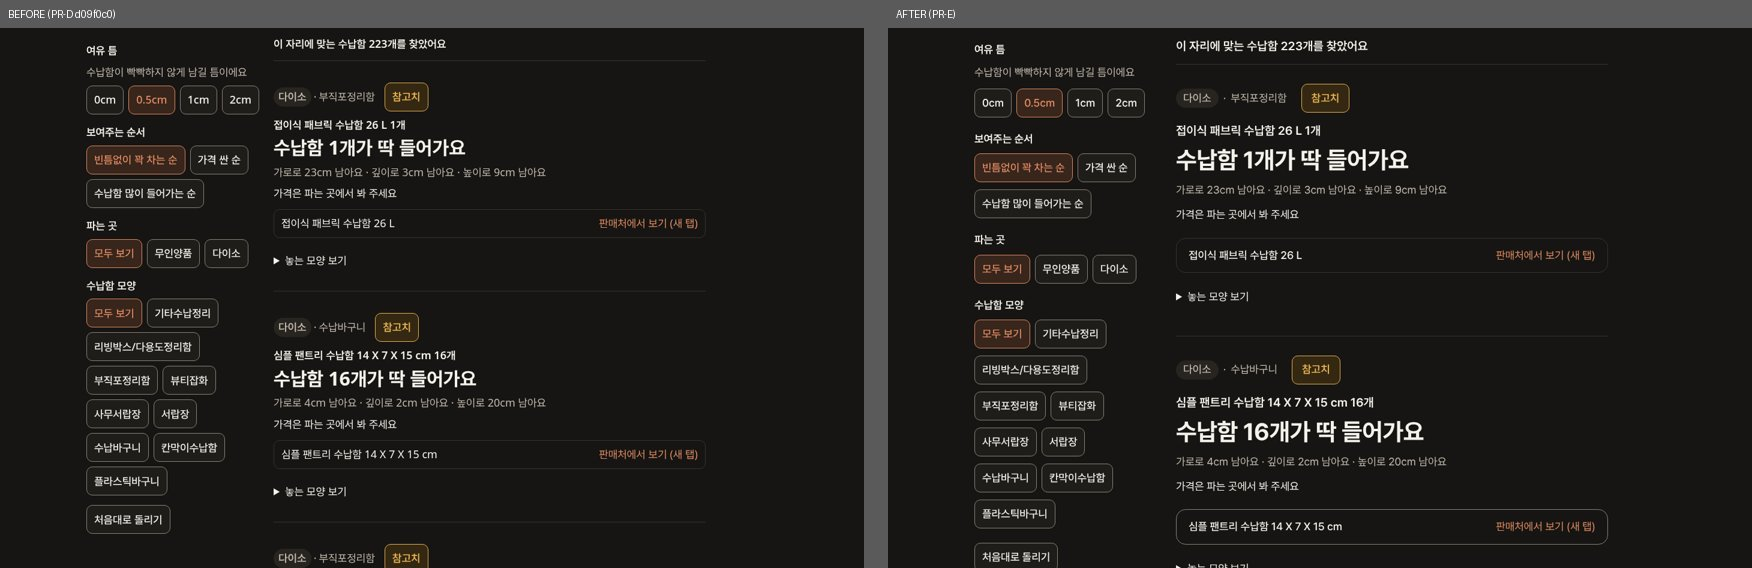
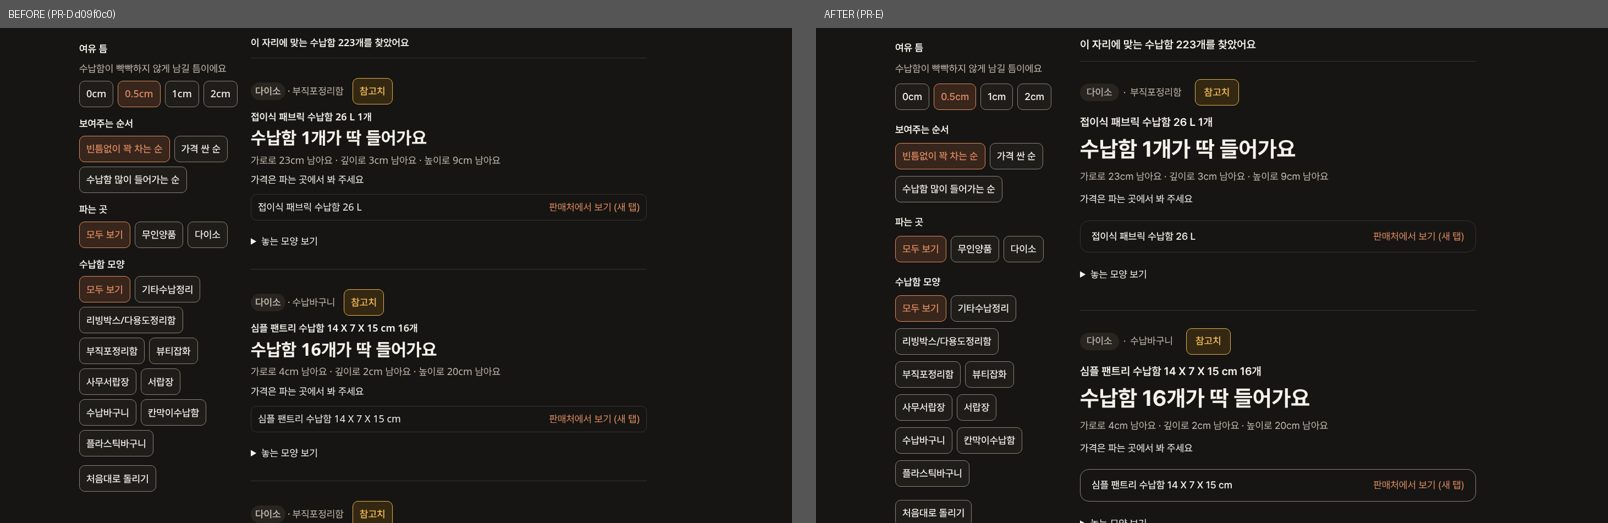
fix(space-fit): Hangul tracking 0 at every size, sheet gets the type layer, sheet title uses title token (review)

diff --git a/apps/web/src/features/space-fit/space-fit.css b/apps/web/src/features/space-fit/space-fit.css
@@ -243,9 +243,9 @@
 .space-filter-panel { gap: var(--zari-space-6); }
 .space-filter-group legend { margin-bottom: var(--zari-space-3); line-height: var(--zari-type-label-line); }
 .space-filter-options { gap: var(--zari-space-3) var(--zari-space-2); }
-.space-sheet { padding: var(--zari-space-6) var(--zari-space-6) max(var(--zari-space-6), env(safe-area-inset-bottom)); }
+.space-sheet { font-family: var(--zari-font-text); font-size: var(--zari-type-body); line-height: var(--zari-type-body-line); letter-spacing: var(--zari-type-tracking-text); word-break: keep-all; padding: var(--zari-space-6) var(--zari-space-6) max(var(--zari-space-6), env(safe-area-inset-bottom)); }
 .space-sheet-head { margin-bottom: var(--zari-space-6); }
-.space-sheet-head h2 { font-family: var(--zari-font-display); letter-spacing: var(--zari-type-display-tracking); }
+.space-sheet-head h2 { font-family: var(--zari-font-display); font-size: var(--zari-type-title); line-height: var(--zari-type-title-line); letter-spacing: var(--zari-type-display-tracking); font-weight: var(--zari-weight-semibold); }
 .space-sheet-footer { margin-top: var(--zari-space-8); gap: var(--zari-space-3); }
 .space-clearance-description { margin: 0 0 var(--zari-space-3); color: var(--zari-text-secondary); line-height: var(--zari-type-body-line); }
 

diff --git a/apps/web/src/styles/tokens.css b/apps/web/src/styles/tokens.css
@@ -41,18 +41,17 @@
   --zari-type-display: 2rem;
   --zari-type-display-wide: 2.5rem;
   --zari-type-display-line: 1.25;
-  --zari-type-display-tracking: -0.012em;
+  --zari-type-display-tracking: 0em;
   --zari-type-result: 2rem;
   --zari-type-result-wide: 2.5rem;
   --zari-type-result-line: 1.18;
-  --zari-type-result-tracking: -0.008em;
+  --zari-type-result-tracking: 0em;
   --zari-type-title: 1.25rem;
   --zari-type-title-line: 1.4;
   --zari-type-body: 1.125rem;
   --zari-type-body-line: 1.6;
   --zari-type-label-line: 1.35;
   --zari-type-tracking-text: 0em;
-  --zari-type-tracking-label: 0.01em;
   --zari-font-mono: ui-monospace, "SFMono-Regular", "Cascadia Code", "Segoe UI Mono", monospace;
   --zari-text-xs: 0.8125rem;
   --zari-text-sm: 0.875rem;

diff --git a/DESIGN.md b/DESIGN.md
@@ -53,7 +53,7 @@ ZARI는 홍보용 랜딩페이지나 일반 관리자 대시보드가 아니라,
 - 글자: 시스템 폰트 스택을 기본으로 한국어와 숫자의 실제 렌더링을 확인한다. 폰트 파일은 동봉하지 않는다. 특정 폰트의 번들링은 별도 검토다.
 - 본문·편집 입력: 기본 1rem. 라벨 0.875rem. 중요한 오류·가격을 작은 caption으로 축소하지 않는다.
 - 한국어 본문은 과도한 음수 자간을 사용하지 않는다. 문장 줄바꿈과 긴 상품명의 확대 표시를 확인한다.
-- 쉬운 모드·SpaceFit 글자(2026-11-11, PR-E): apple.com/kr 실측(`docs/evidence/space-fit-pr-e/apple-type.md`)을 따라 `--zari-font-text`/`--zari-font-display`(-apple-system·BlinkMacSystemFont·SF Pro 이름은 시스템 조회만, 이어서 Pretendard·Apple SD Gothic Neo·system-ui) 스택과 `--zari-type-*` 크기·행간·자간 토큰을 쓴다. 한글 본문 18px·행간 1.6·자간 0, 행 제목 20px·1.4, 결과 수량 32px(1024px 이상 40px)·1.18·-0.008em, 화면 제목 32px(40px)·1.25·-0.012em. 음수 자간은 display 크기에만 둔다.
+- 쉬운 모드·SpaceFit 글자(2026-11-11, PR-E): apple.com/kr 실측(`docs/evidence/space-fit-pr-e/apple-type.md`)을 따라 `--zari-font-text`/`--zari-font-display`(-apple-system·BlinkMacSystemFont·SF Pro 이름은 시스템 조회만, 이어서 Pretendard·Apple SD Gothic Neo·system-ui) 스택과 `--zari-type-*` 크기·행간·자간 토큰을 쓴다. 한글 본문 18px·행간 1.6·자간 0, 행 제목 20px·1.4, 결과 수량 32px(1024px 이상 40px)·1.18, 화면 제목 32px(40px)·1.25. apple.com/kr 실측대로 한글은 화면 제목·수량을 포함해 모든 크기에서 자간 0이며 음수 자간을 쓰지 않는다. 필터 시트는 body로 포털되므로 `.space-sheet`에 같은 글자 기준을 직접 건다.
 - 숫자·단위: tabular numerals를 사용하고, 표시 단위는 일관되게 붙인다. UI의 cm 표시가 정수 mm 계약을 변경하지 않는다.
 - 간격: 4·8·12·16·24·32·48·64px에 대응하는 rem 토큰. 예외는 이유를 남긴다.
 - 컨트롤: 기본 최소 높이 44px 상당의 rem, coarse pointer는 48px 상당. **ZARI의 사용성 목표**이며 WCAG 전체 충족을 뜻하지 않는다. 고정 높이로 확대된 텍스트를 자르지 않는다.

diff --git a/design/DECISIONS.md b/design/DECISIONS.md
@@ -646,7 +646,7 @@ ID / 상태 / 문제 / 변경 대상 / 검토한 대안 / 선택 이유 / 접근
 
 - 근거: 준태님 2026-11-11 피드백("글자가 다닥다닥 붙어 아름답지 않다, 애플 공홈 폰트·자간·줄간격을 따르라").
 - 측정(측정함): apple.com/kr·apple.com·apple.com/kr/iphone의 computed style을 1440/390에서 읽었다. 한국어 페이지는 모든 역할에서 자간 `normal`(0), 본문 행간 1.57–1.59, display 1.10–1.19·weight 600, 작은 글자 1.33–1.43이다. 영어 페이지만 -0.022em(17px)을 쓴다.
-- 결정: 한글은 자간 0과 본문 행간 1.6, 제목 1.4, 수량 1.18, 화면 제목 1.25로 맞추고 음수 자간은 display(-0.012em)·수량(-0.008em)에만 둔다. 쉬운 모드의 본문 18px·결과 32px·단추 48px 계약은 유지한다(애플의 14–17px 본문보다 크다). 위계는 화면 제목 → 수량 줄(유일한 큰 강조) → 행 제목 20px semibold → 본문 → secondary 색 본문 순이다. 행 사이 40px 이상, 행 안 8–16px, 링크 행 16/20px 안쪽 여백, 메타 칩 사이 12/24px로 8pt 리듬을 따른다.
+- 결정: 한글은 자간 0과 본문 행간 1.6, 제목 1.4, 수량 1.18, 화면 제목 1.25로 맞추고 apple.com/kr 실측대로 화면 제목·수량을 포함해 모든 크기에서 자간 0을 쓴다(음수 자간은 라틴 페이지에서만 관찰됨). 검토(DeepSeek flash)에서 처음 넣은 display 음수 자간이 근거와 어긋난다는 지적을 받아 0으로 고쳤다. 쉬운 모드의 본문 18px·결과 32px·단추 48px 계약은 유지한다(애플의 14–17px 본문보다 크다). 위계는 화면 제목 → 수량 줄(유일한 큰 강조) → 행 제목 20px semibold → 본문 → secondary 색 본문 순이다. 행 사이 40px 이상, 행 안 8–16px, 링크 행 16/20px 안쪽 여백, 메타 칩 사이 12/24px로 8pt 리듬을 따른다.
 - 글꼴: 폰트 파일·애플 자산은 동봉하지 않는다. SF Pro 이름은 시스템 조회용으로만 stack에 둔다.
 - 범위: `tokens.css`에 새 `--zari-font-text`/`--zari-font-display`/`--zari-type-*` 토큰을 더하고 `space-fit.css`의 SpaceFit 화면에만 적용했다. 다른 화면의 `--zari-font-ui`는 그대로다. 문구 변경 없음.
 

diff --git a/docs/IMPLEMENTATION_STATUS.md b/docs/IMPLEMENTATION_STATUS.md
@@ -2842,4 +2842,5 @@ Playwright의 문구 기대값을 갱신하고 지정 버튼·단위 확인·결
 - 변경: `tokens.css`에 `--zari-font-text`/`--zari-font-display`와 `--zari-type-*`(display·result·title·body 크기/행간/자간, label 행간)를 더했다. `space-fit.css` 끝의 PR-E 층이 SpaceFit 화면 전체(입력·결과·시트·필터 열)에 적용한다. Rust·계약·문구·R2·배포는 바꾸지 않았다.
 - 시각 검증(측정함): live R2 번들 read-only, production build, 390/1440/320 × light/dark × 입력·결과·조합·시트 22개 상태에서 axe 위반 0, 가로 넘침·잘림 없음, 48px 미만 대상 없음. 줄 수: h1 390/320에서 2줄·1440 1줄, 행 제목 1줄, 수량 390/1440 1줄·320 2줄. 전후 비교: `docs/evidence/space-fit-pr-e/before-after-*.jpg`.
 
-- 검증(측정함): typecheck·lint 통과, `npm test` 529/529, `check-design-tokens --self-test` 97 base tokens · 90/90(새 색상 쌍 없음), `test:build` 통과, space-fit+easy-mode Chromium 38 passed.
+- 검증(측정함): typecheck·lint 통과, `npm test` 529/529, `check-design-tokens --self-test` 96 base tokens · 90/90(새 색상 쌍 없음), `test:build` 통과, space-fit+easy-mode Chromium 38 passed.
+- 검토(DeepSeek flash, 읽기 전용; GLM 무응답·Codex 사용 한도): (1) 한글 display·수량의 음수 자간이 apple.com/kr 실측(자간 0)과 어긋남 → 0em으로 고치고 쓰이지 않던 `--zari-type-tracking-label` 삭제 (2) 필터 시트가 body로 포털되어 PR-E 글자 기준을 못 받음(범례 16px) → `.space-sheet`에 본문 글자 기준을 직접 걸어 18px (3) 시트 제목이 문서와 다른 24px/1.2 → `--zari-type-title` 20px/1.4. 고친 뒤 22개 상태를 다시 찍어 모두 axe 0·넘침/잘림 0·48px 미만 0, 측정값 h1 32px/40px/자간 normal(1440 40px/50px), 수량 32px/37.76px(1440 40px/47.2px).

diff --git a/design/COMPONENTS.md b/design/COMPONENTS.md
@@ -101,8 +101,8 @@ SVG 도면의 의미 있는 선은 `--zari-canvas-outline`, 선택은 `--zari-se
 
 | 역할 | 토큰 | 값 |
 |---|---|---|
-| 화면 제목 h1 | `--zari-type-display(-wide)`, `-display-line`, `-display-tracking`, `--zari-font-display` | 2rem(1024px 이상 2.5rem) / 1.25 / -0.012em / 600 |
-| 결과 수량 줄(유일한 강조) | `--zari-type-result(-wide)`, `-result-line`, `-result-tracking` | 2rem(2.5rem) / 1.18 / -0.008em / 700 |
+| 화면 제목 h1 | `--zari-type-display(-wide)`, `-display-line`, `-display-tracking`, `--zari-font-display` | 2rem(1024px 이상 2.5rem) / 1.25 / 0 / 600 |
+| 결과 수량 줄(유일한 강조) | `--zari-type-result(-wide)`, `-result-line`, `-result-tracking` | 2rem(2.5rem) / 1.18 / 0 / 700 |
 | 행 제목·요약·시트 제목 | `--zari-type-title`, `-title-line` | 1.25rem / 1.4 / 0 / 600 |
 | 본문·secondary 본문 | `--zari-type-body`, `-body-line`, `--zari-type-tracking-text`, `--zari-font-text` | 1.125rem / 1.6 / 0 |
 | 단추·칩·링크 행 | `--zari-type-label-line` | 1.35, 최소 높이 48px |
